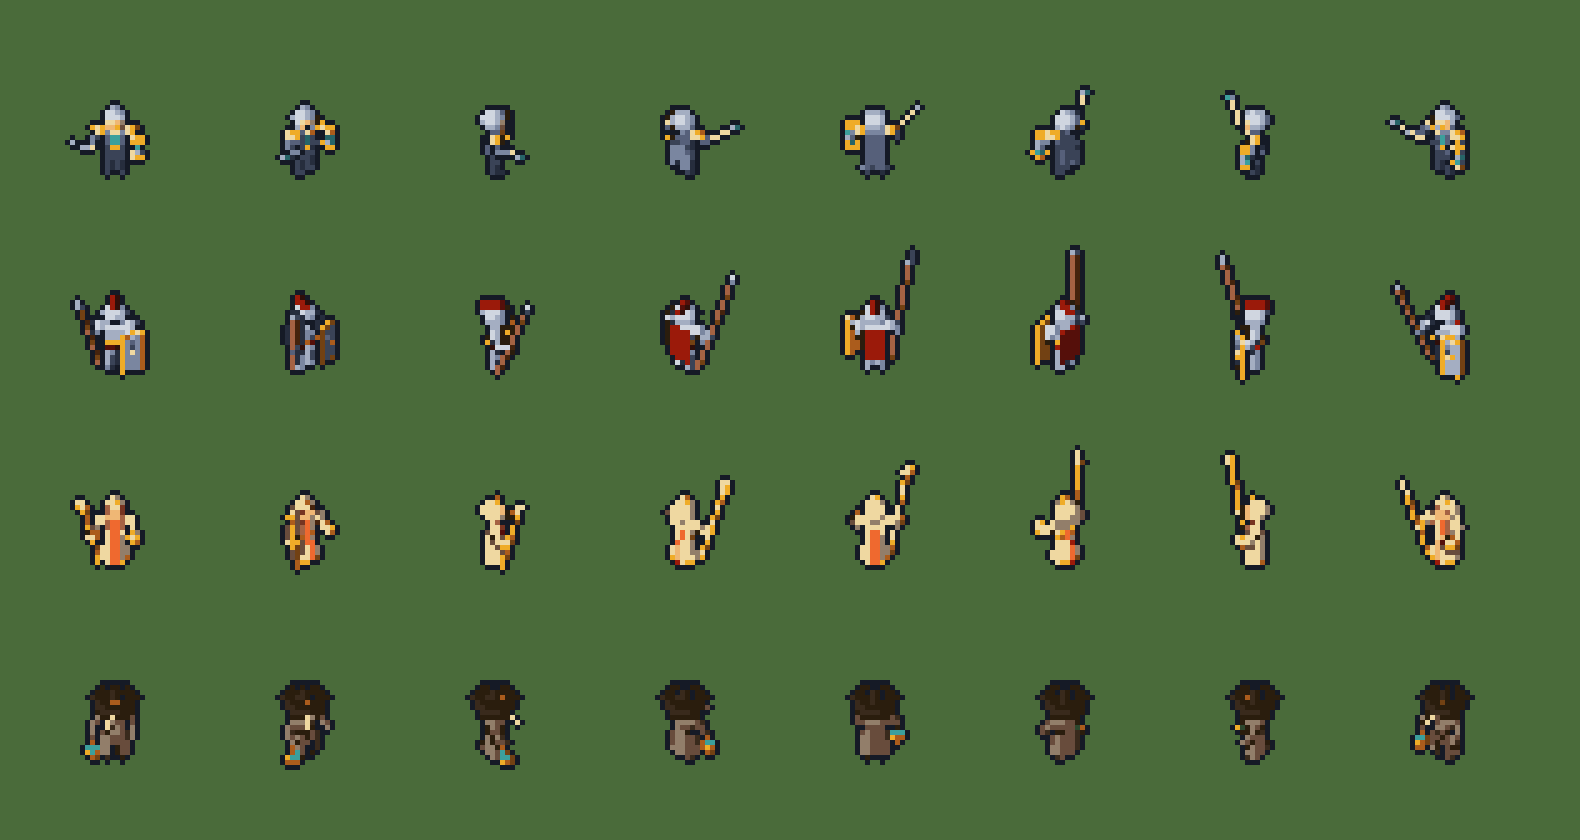
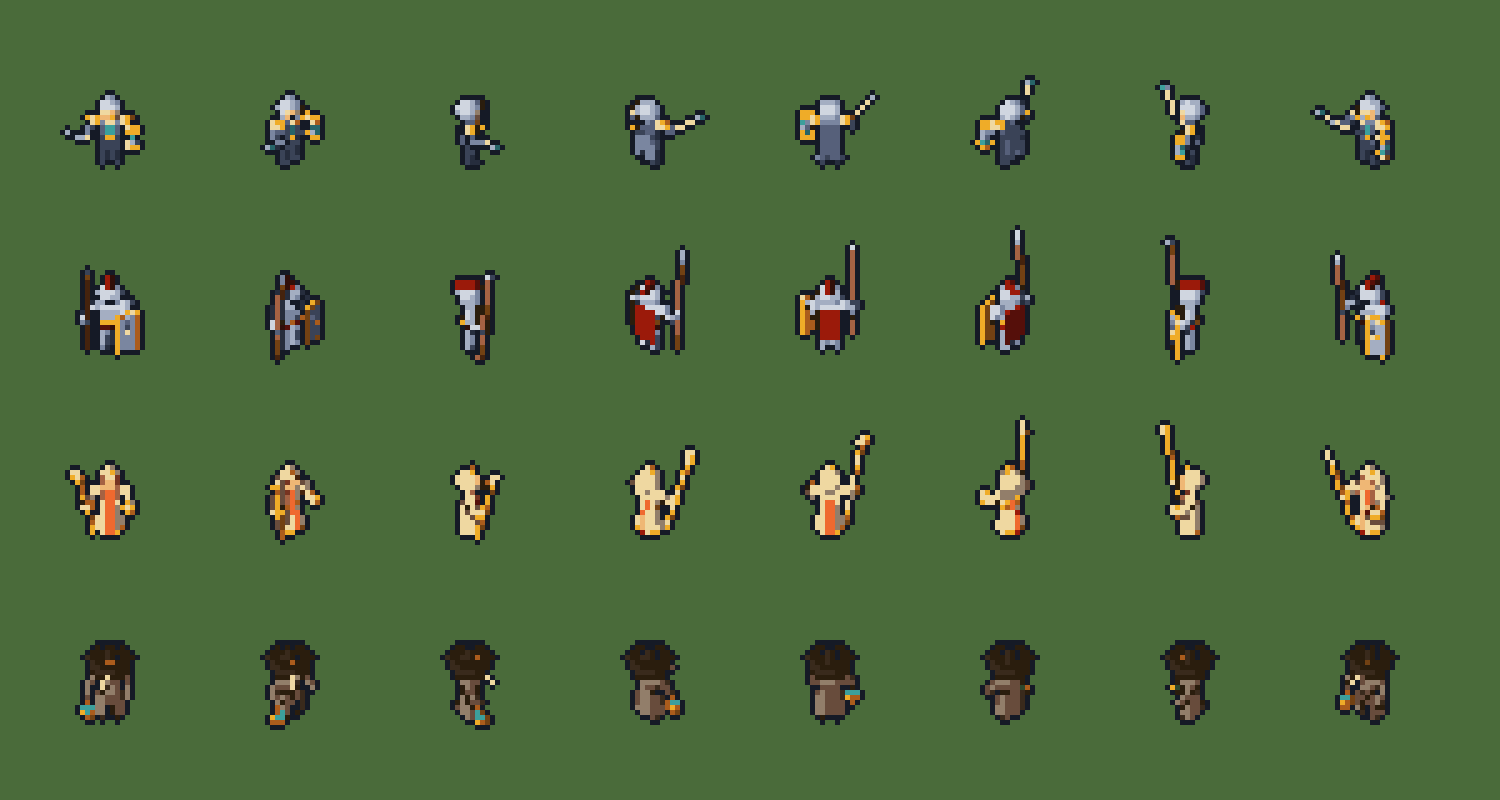
아이아스 창 세우기·찌르기 과장 — 창 5°·손 벌림, 찌르기 창 밀어내기, 잔상 1px 띄우기(Gemini 4차 «상»)
Gemini 4차의 아이아스 «상» 지적(SE·E 창이 몸을 가로지름, S·N 찌르기 가독성)을 고쳤다.
사용자가 «상» 지적 전부를 고르게 했다(2026-10-19).
창 각도는 네 안을 견줘 앞 5°·바깥 0°·손 벌림 1.1로 했다. 캔버스는 34 → 32px이 됐다.
다른 영웅 정지 비교 미리보기에도 아이아스가 들어 있어 함께 다시 만들었다.

Claude-Session: https://claude.ai/code/session_01XsJzvSywTfhUgL72Hqiuhg

diff --git a/tools/art/aias.py b/tools/art/aias.py
@@ -22,16 +22,19 @@ BASE = {"steel": ["262d3d", "3a4357", "7a86a0", "a4aec2", "d0d6e0"],
 MATS = list(BASE)
 PARTS = ["leg", "torso", "head", "arm", "spear", "shield"]
 SIZES = (24,)
-TAG = f"m5 ppu{H.PPU24} aias1"  # 형체 크기를 바꾸면 이 꼬리표도 바꾼다(fit.json)
+TAG = f"m5 ppu{H.PPU24} aias2"  # 형체 크기를 바꾸면 이 꼬리표도 바꾼다(fit.json)
 
-# 창은 거의 세워 들고 앞으로 15° 기울인다. 0°면 동에서 창끝이 투구 테두리와 겹쳐 보이지 않았고, 15°에서는 동·서 모두 창끝이 얼굴 앞으로 나온다
-SPEAR = dict(sword=15, sword_side=10)
-IDLE = dict(H.IDLE, **SPEAR)
-WALK = [dict(w, **SPEAR) for w in H.WALK]
+# 창은 거의 세워 들고 앞으로 5°만 기울인다. 15°였을 때 남동·동에서 창이 몸통·방패 앞을 대각선으로 가로질렀다(Gemini 4차 2026-10-19).
+# 창 든 오른손을 바깥으로 1.5px쯤 더 벌려(ab_r 0.7 → 1.1) 창 자루가 오른팔 바깥 실루엣에 붙어 내려오게 한다.
+# 바깥 기울기는 0이다. 10°면 동에서 창이 카메라 쪽으로 누워 짧아지고 창끝이 투구 높이에 붙었다. -8°는 남에서 창 밑동이 바깥으로 삐져나왔다
+SPEAR = dict(sword=5, sword_side=0)
+IDLE = dict(H.IDLE, **SPEAR, ab_r=1.1)
+WALK = [dict(w, **SPEAR, ab_r=1.1) for w in H.WALK]
 # 공격은 창 찌르기: 창을 허리 높이에서 뒤로 당겼다가(준비) 팔을 뻗고 반 발 내디디며 찌르고(가운데가 타격 프레임) 반쯤 거둔다(마무리).
 # 방패 팔은 정지 자세 그대로 앞을 막는다
 ATTACK = [dict(IDLE, sh_r=-60, el_r=55, ab_r=0.3, sword=88, sword_side=-5, lean=-6),
-          dict(IDLE, sh_r=80, el_r=0, ab_r=0.2, sword=84, sword_side=-5, lean=12, hip_r=14, knee_r=10, hip_l=-10, knee_l=10),
+          # 찌르기 프레임은 창을 손 안에서 앞으로 0.15 밀어낸다(reach). S·N은 찌르는 방향이 카메라 축이라 창끝 이동이 짧아 보였다(Gemini 4차 2026-10-19)
+          dict(IDLE, sh_r=80, el_r=0, ab_r=0.2, sword=84, sword_side=-5, lean=12, hip_r=14, knee_r=10, hip_l=-10, knee_l=10, reach=0.15),
           dict(IDLE, sh_r=-25, el_r=95, ab_r=0.25, sword=95, sword_side=-5, lean=3)]
 # 쓰러짐은 기사 자세를 쓰되, 창은 셋째 프레임부터 놓치고 방패는 넷째 프레임부터 몸 옆 바닥에 눕는다. 방패를 팔에 둔 채 누우면
 # 누운 몸 위에 금테 상자가 얹힌 것처럼 보였다
@@ -64,8 +67,8 @@ def aias(pose, bob_unit):
         P += [(R.ellipsoid(U(sh + [0.01 * s, 0, 0.015]), (0.085, 0.08, 0.06)), m("steel"), "torso"),
               (R.capsule(U(sh), U(el), 0.044), m("steel"), "arm"), (R.capsule(U(el), U(hd), 0.042), m("steel"), "arm"),
               (R.ellipsoid(U(hd), (0.045, 0.045, 0.045)), m("dark"), "arm")]
-    hd = U(arms["r"][2])
     bd, _, _ = H.blade_axes(pose, up_r)  # 창은 기사의 검과 같은 방향 값으로 든다
+    hd = U(arms["r"][2]) + bd * pose.get("reach", 0)  # 창 기준점. 찌르기에서 손 안의 창을 앞으로 민다
     P += [] if not pose.get("spear", 1) else [
           (R.capsule(hd - bd * 0.5, hd + bd * 0.76, 0.03), m("wood"), "spear"),  # 자루: 반지름 0.03이면 폭이 1px을 넘어 화소 사이로 빠지지 않는다
           (R.capsule(hd + bd * 0.74, hd + bd * 0.82, 0.014, 0.032), m("steel"), "spear"),
@@ -92,7 +95,7 @@ def tip(pose):
     """창끝의 모델 좌표"""
     U, _, up_r, _, arms = H.rig(pose, 0)
     bd, _, _ = H.blade_axes(pose, up_r)
-    return U(arms["r"][2]) + bd * TIP
+    return U(arms["r"][2]) + bd * (TIP + pose.get("reach", 0))
 
 
 def screen(p, g, ppu, anchor, elev=45):
@@ -118,9 +121,10 @@ def smear(fts):
         for r, g in enumerate(R.DIRS.values()):
             p0, p1 = screen(tip(ATTACK[0]), g, ppu, a), screen(tip(ATTACK[1]), g, ppu, a)
             u = (p1 - p0) / np.linalg.norm(p1 - p0)
-            # 자루 양쪽에 바탕 1px을 띄운다. 외곽선에 붙이면(±1.5) 창끝이 삼지창처럼 보였다. 준비 창끝 2px 뒤에서 찌르기 창끝 4px 앞까지
-            for off in (-2.5, 2.5):
-                for t in np.arange(-2, np.linalg.norm(p1 - p0) - 4, 0.25):
+            # 자루 외곽선과 잔상 사이에 바탕 1px을 띄운다(±3.5). 외곽선에 붙이면(±1.5) 창끝이 삼지창처럼 보였고, ±2.5는 S·N에서 자루에 붙은
+            # 흰 얼룩으로 읽혔다(Gemini 4차 2026-10-19). 준비 창끝 4px 뒤에서 찌르기 창끝 2px 앞까지
+            for off in (-3.5, 3.5):
+                for t in np.arange(-4, np.linalg.norm(p1 - p0) - 2, 0.25):
                     x, y = np.round(p0 + u * t + np.array([-u[1], u[0]]) * off).astype(int)
                     if 0 < x < c2 - 1 and 0 < y < c2 - 1 and im[r * c2 + y, c2 + x, 3] == 0:
                         im[r * c2 + y, c2 + x] = color

diff --git a/insights/2026-10-19_aias_sprite.md b/insights/2026-10-19_aias_sprite.md
@@ -68,7 +68,19 @@ python tools/art/lint.py walk_45_D_f24p aias
 - (Claude 의견) 공용 뼈대는 두 번째 영웅에도 그대로 맞았다. 아이아스는 형체 함수, 창 기울기, 찌르기 공격, 쓰러짐의 창·방패만 새로 썼다. 미리보기도 공용으로 옮겼다. 그래서 남은 넷(세라피나·베스퍼·이그니스·실비아)도 형체·자세만 쓰면 된다.
 - (Claude 의견) 잔상은 시트에 굽었다. 4.1a에서 게임이 공격을 그림으로 그리게 되면, 이펙트로 옮길 필요가 있는지 그때 본다.
 
+## Gemini 4차 반영(2026-10-19)
+
+다섯 영웅을 묶어 Gemini 4차 검수를 받았다(사용자 2026-10-19). 기록은 [영웅 스프라이트 기록](2026-10-19_hero_sprites.md) «Gemini 4차 검수»에 있다. 아이아스는 «부분 통과»였다. 사용자가 고른 «상» 지적 전부를 고쳤다.
+
+| 지적 | 고친 것 | 견준 안 |
+|---|---|---|
+| SE·E에서 창이 몸통·방패 앞을 가로지른다 | 창을 앞으로 15° → 5°, 바깥 10° → 0°로 세웠다. 창 든 손을 바깥으로 벌렸다(ab_r 0.7 → 1.1) | 바깥 10°는 E에서 창이 카메라 쪽으로 누워 창끝이 투구 높이에 붙었다. -8°는 S에서 창 밑동이 바깥으로 나왔다. 앞 10°·ab_r 0.9는 SE에서 여전히 몸에 걸쳤다 |
+| S·N 찌르기 f2는 창 길이 변화가 안 보이고, 잔상이 자루에 붙은 흰 얼룩이다 | 찌르기 프레임에 창을 손 안에서 앞으로 0.15 밀어낸다(reach). 잔상을 자루에서 ±2.5 → ±3.5px로 띄우고, 범위를 «준비 창끝 4px 뒤 ~ 찌르기 창끝 2px 앞»으로 늘렸다 | — |
+
+- 맞춤 꼬리표를 `aias2`로 올렸다. 창을 세우니 캔버스가 34 → 32px, 기준점이 (17, 28) → (16, 26)이 됐다. Gemini는 34px 덩치를 «유지»로 봤는데, 크기는 창 각도에 따라 맞춤이 정한 것이다.
+- «중» 지적(T자 눈구멍 세로줄, N·NW 창 자루 3px 통나무)과 «유지» 판정(쓰러짐 바닥 방패)은 그대로 두었다.
+
 ## 남은 일
 
-- [ ] 검수(사용자, 또는 사용자가 맡기면 Gemini): 잔상이 «움직임»으로 읽히는가, 남동에서 창이 몸을 가로질러 보이는 것, 쓰러짐의 바닥 방패
-- [ ] 남은 영웅 넷(세라피나·베스퍼·이그니스·실비아)의 24px 시트
+- [x] 검수: Gemini 4차(위 절)
+- [x] 남은 영웅 넷(세라피나·베스퍼·이그니스·실비아)의 24px 시트: [영웅 스프라이트 기록](2026-10-19_hero_sprites.md)
